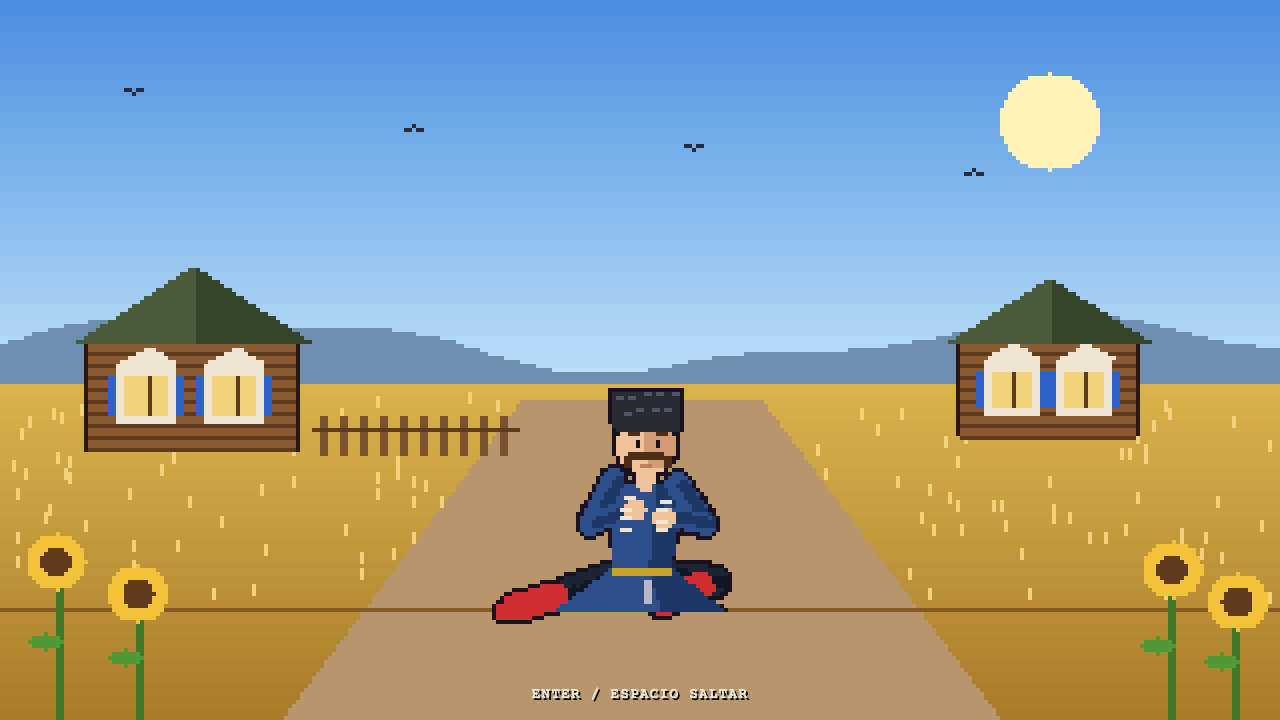
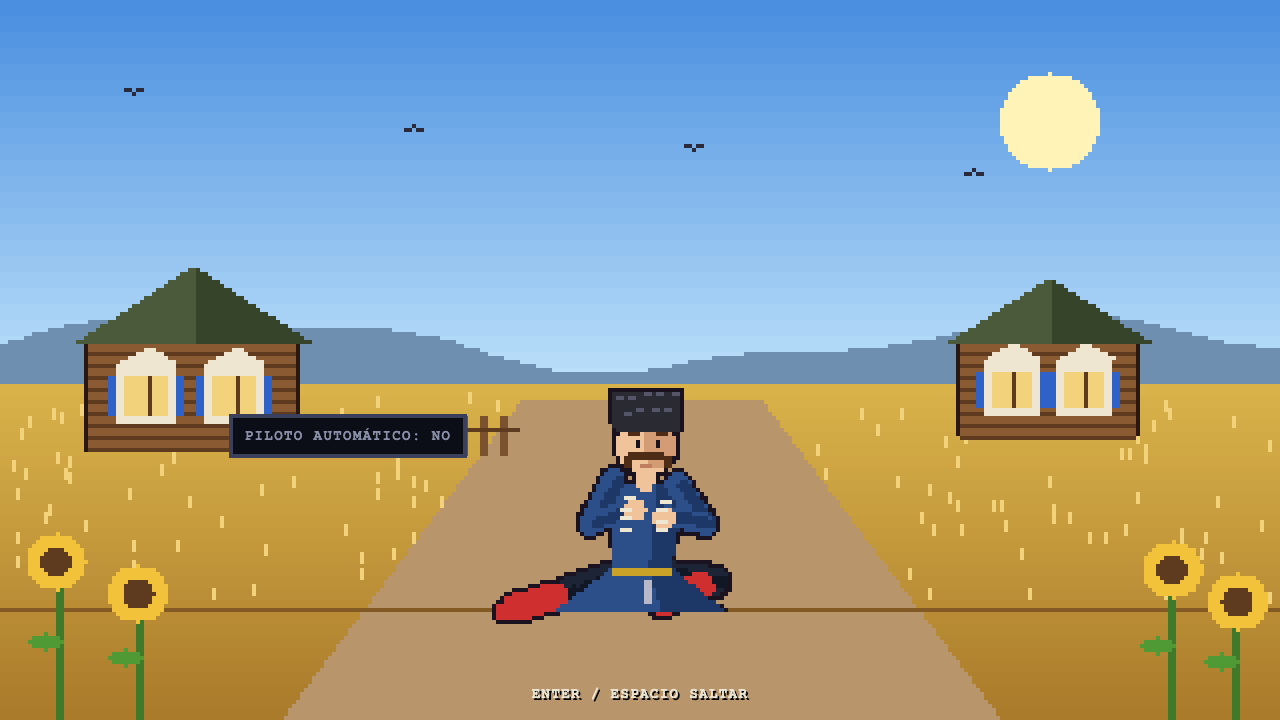
docs: documenta el piloto automático y el ranking en el disco y regenera las capturas

Changed region(s): [[0.1562, 0.55, 0.375, 0.6417]]

diff --git a/tests/screenshots/screenshots.spec.ts b/tests/screenshots/screenshots.spec.ts
@@ -52,6 +52,12 @@ const TETRIS_BOARD = [
 /** Frames que quedan de la animación de 4 líneas en el capturado: fondo destellando y las columnas centrales ya borradas. */
 const TETRIS_FLASH_FRAMES_REMAINING = 14;
 
+/** Nombre que se escribe al entrar en el ranking. */
+const RECORD_NAME = 'Пётр';
+
+/** Frames que juega el piloto antes de la captura: la J ya está bajando hacia su hueco. */
+const AUTOPILOT_SHOT_FRAMES = 16;
+
 /** Líneas al empezar el GIF: lejos del objetivo para que no salte la celebración. */
 const DEMO_START_LINES = 3;
 
@@ -199,7 +205,9 @@ test('limpieza_lineas.png: momento de limpiar varias líneas', async ({ page }) 
   await save(page, 'limpieza_lineas.png');
 });
 
-test('game_over.png: pantalla final con la puntuación', async ({ page }) => {
+test('ranking_nombre.png y game_over.png: nombre para el ranking y pantalla final', async ({
+  page,
+}) => {
   await startGame(page, 4);
   await patchGame(page, {
     boardRows: Array.from({ length: 20 }, (_, i) => (i % 3 === 0 ? 'OOOO.OOOOO' : 'OOOOOOOOO.')),
@@ -212,8 +220,31 @@ test('game_over.png: pantalla final con la puntuación', async ({ page }) => {
   });
   await runUntil(page, (state) => state.phase === 'gameOver');
   await runFrames(page, 2);
+  expect(await screen(page)).toBe('nameEntry');
+  await page.keyboard.type(RECORD_NAME);
+  await runFrames(page, 2);
+  await save(page, 'ranking_nombre.png');
+  await tap(page, 'Enter');
   expect(await screen(page)).toBe('gameOver');
   await save(page, 'game_over.png');
+});
+
+test('partida_piloto.png: el piloto automático colocando una pieza', async ({ page }) => {
+  await startGame(page, 3);
+  await patchGame(page, {
+    boardRows: MID_GAME_BOARD,
+    activePiece: { type: 'J', rotation: 0, x: 5, y: 2 },
+    nextPiece: 'S',
+    score: 21_940,
+    level: 5,
+    lines: 33,
+    levelLines: 11,
+    levelGoal: 14,
+  });
+  await page.getByRole('button', { name: /PILOTO AUTOMÁTICO/ }).click();
+  await runFrames(page, AUTOPILOT_SHOT_FRAMES);
+  expect((await page.evaluate(() => window.__tetris?.getSnapshot()))?.autopilotEnabled).toBe(true);
+  await save(page, 'partida_piloto.png');
 });
 
 /**

diff --git a/README.md b/README.md
@@ -4,15 +4,16 @@
 
 ![Partida de ТЕТРИС en movimiento: las piezas caen y se completan líneas en el pozo, con la Plaza Roja de fondo y sus paseantes](docs/screenshots/partida_demo.gif)
 
-**ТЕТРИС** (Tetris) es un juego de bloques que caen, fiel a las reglas del clásico de NES (1989), hecho con TypeScript, React y Canvas. Se juega en el navegador. Todo el juego cabe en un único archivo `index.html` que funciona abierto con doble clic, sin servidor ni conexión, y viene con lanzadores para macOS, Linux y Windows.
+**ТЕТРИС** (Tetris) es un juego de bloques que caen, fiel a las reglas del clásico de NES (1989), hecho con TypeScript, React y Canvas. Se juega en el navegador. Todo el juego cabe en un único archivo `index.html` que funciona incluso abierto con doble clic, sin conexión, y viene con lanzadores para macOS, Linux y Windows que lo sirven desde un pequeño servidor local para guardar el ranking en el disco.
 
-Se juega delante de una **Plaza Roja viva** en pixel-art, vista desde San Basilio como en las postales, con paseantes, palomas, ciclo de día y noche, tiempo cambiante y **eventos típicos** que van ocupando la plaza: el desfile de la Victoria, la Pascua ortodoxa, el mercadillo de Navidad, los fuegos artificiales, Maslenitsa y la fiesta de los campeones olímpicos. Cada nivel tiene un **objetivo de líneas**; al superarlo, uno de los 9 personajes sale a bailar la danza cosaca durante 10 segundos en su propio escenario ruso. Incluye música chiptune sintetizada en tiempo real, efectos de sonido, récords y preferencias guardadas.
+Se juega delante de una **Plaza Roja viva** en pixel-art, vista desde San Basilio como en las postales, con paseantes, palomas, ciclo de día y noche, tiempo cambiante y **eventos típicos** que van ocupando la plaza: el desfile de la Victoria, la Pascua ortodoxa, el mercadillo de Navidad, los fuegos artificiales, Maslenitsa y la fiesta de los campeones olímpicos. Cada nivel tiene un **objetivo de líneas**; al superarlo, uno de los 9 personajes sale a bailar la danza cosaca durante 10 segundos en su propio escenario ruso. Incluye música chiptune sintetizada en tiempo real, efectos de sonido, un **ranking de 10 puestos con nombre** que se conserva entre sesiones, preferencias guardadas y un **piloto automático** que juega solo con el algoritmo de Pierre Dellacherie.
 
 ## Índice
 
 - [Capturas de pantalla](#capturas-de-pantalla)
 - [Jugar](#jugar)
 - [Controles](#controles)
+- [Piloto automático](#piloto-automático)
 - [Reglas y puntuación](#reglas-y-puntuación)
 - [La Plaza Roja](#la-plaza-roja)
 - [Desarrollo](#desarrollo)
@@ -34,6 +35,8 @@ Se juega delante de una **Plaza Roja viva** en pixel-art, vista desde San Basili
 |                                                                   Limpieza de 4 líneas a la vez: el pozo destella.                                                                    |                                                                         Pausa: el tablero se oculta, como en NES.                                                                         |
 |                           ![Pantalla de fin de partida con la puntuación, las líneas, el nivel y el aviso de nuevo récord](docs/screenshots/game_over.png)                            |                                                     ![Tabla de controles con cada tecla y su acción](docs/screenshots/controles.png)                                                      |
 |                                                                      Fin de la partida con la puntuación final.                                                                       |                                                                                  Pantalla de controles.                                                                                   |
+|              ![Partida con el piloto automático activado: el botón resaltado bajo el marcador y una J bajando sola hacia su hueco](docs/screenshots/partida_piloto.png)               |                ![Fin de partida que entra en el ranking: el juego pide el nombre, escrito en cirílico, con el puesto y la puntuación](docs/screenshots/ranking_nombre.png)                |
+|                                                                        Piloto automático: el juego juega solo.                                                                        |                                                                     Al entrar en el ranking, el juego pide el nombre.                                                                     |
 | ![Celebración del primer nivel: un cosaco con bigote y botas rojas lanza una patada en plena prisiadka en la estepa, entre isbas y girasoles](docs/screenshots/celebracion_nivel.png) | ![Celebración del séptimo nivel: el gigante del baloncesto hace el salto abierto en el pabellón de Moscú-80, con los aros olímpicos y Misha](docs/screenshots/celebracion_moscu_1980.png) |
 |                                                                      El cosaco en plena prisiadka, en la estepa.                                                                      |                                                                   El gigante del baloncesto en el pabellón de Moscú-80.                                                                   |
 
@@ -64,13 +67,17 @@ Para jugar solo necesitas un **navegador moderno** (Chrome, Edge, Firefox o Safa
 | Linux   | `tetris.sh`      | Ver [permiso de ejecución](#linux-permiso-de-ejecución) |
 | Windows | `Tetris.bat`     | Ver [SmartScreen](#windows-smartscreen)                 |
 
-También puedes abrir `index.html` directamente con el navegador.
+El lanzador arranca un pequeño **servidor local** (con Perl en macOS y Linux, que ya vienen con él, y con PowerShell en Windows) y abre el juego en el navegador. Deja abierta la ventana del terminal mientras juegas; ciérrala para terminar.
 
-> Los récords y las preferencias se guardan en el `localStorage` del navegador, asociados a la ruta del archivo. Si mueves la carpeta, empezarás con los récords en blanco.
+### Ranking
+
+El ranking tiene siempre **10 puestos**, que la primera vez que abres el juego en un ordenador están todos a 0 puntos. Si una partida supera la puntuación del décimo, el juego te pide el nombre (hasta 10 caracteres, en cualquier alfabeto) y guarda nombre, puntuación, líneas, nivel y fecha en **`records.json`**, en el disco: junto a `index.html` en la carpeta del zip, o en la raíz del repositorio si juegas desde ahí. Así los récords se conservan de una sesión a otra y cada partida nueva los actualiza. Las partidas con el [piloto automático](#piloto-automático) no cuentan.
+
+También puedes abrir `index.html` directamente con el navegador, sin lanzador. En ese caso no hay servidor, y el ranking y las preferencias se guardan en el `localStorage` del navegador, asociados a la ruta del archivo: si mueves la carpeta, empezarás con el ranking a 0.
 
 ### Lanzadores sin firmar
 
-Los lanzadores no están firmados digitalmente (firmarlos requiere certificados de pago), así que la primera vez el sistema puede avisarte. Son scripts de texto de pocas líneas: puedes abrirlos con un editor y comprobar que solo abren `index.html` en tu navegador.
+Los lanzadores no están firmados digitalmente (firmarlos requiere certificados de pago), así que la primera vez el sistema puede avisarte. Son scripts de texto: puedes abrirlos con un editor y comprobar que solo arrancan el servidor local (`records_server.pl` o `records_server.ps1`, que solo atiende peticiones de tu propio equipo) y abren el juego en tu navegador.
 
 #### macOS (Gatekeeper)
 
@@ -83,7 +90,7 @@ Si aparece _"no se puede abrir porque es de un desarrollador no identificado"_:
   xattr -d com.apple.quarantine Tetris.command
   ```
 
-Al ejecutarse se abre una ventana de Terminal que puedes cerrar en cuanto aparezca el juego en el navegador.
+Al ejecutarse se abre una ventana de Terminal con el servidor local: déjala abierta mientras juegas y ciérrala para terminar.
 
 #### Windows (SmartScreen)
 
@@ -98,7 +105,7 @@ chmod +x tetris.sh
 ./tetris.sh
 ```
 
-O activa _"Permitir ejecutar el archivo como un programa"_ en sus propiedades. El lanzador usa `xdg-open`, que viene en casi todas las distribuciones de escritorio.
+O activa _"Permitir ejecutar el archivo como un programa"_ en sus propiedades. Si lo abres desde un terminal, verás el servidor local; ciérralo con Ctrl+C al terminar. El lanzador usa Perl y `xdg-open`, que vienen en casi todas las distribuciones de escritorio.
 
 ## Controles
 
@@ -113,6 +120,7 @@ O activa _"Permitir ejecutar el archivo como un programa"_ en sus propiedades. E
 | Esc             | Volver al menú (o atrás en las pantallas del menú)                          |
 | Enter           | Empezar / reiniciar (y aceptar en el menú)                                  |
 | Enter o Espacio | Saltar la celebración al superar un nivel                                   |
+| Botón (ratón)   | **PILOTO AUTOMÁTICO**, bajo el marcador: el juego juega solo                |
 
 En el menú: ↑ ↓ para elegir, ← → para cambiar el valor de una opción y Enter para aceptar.
 
@@ -123,9 +131,20 @@ En el menú: ↑ ↓ para elegir, ← → para cambiar el valor de una opción y
 - **Música**: activada o desactivada (los efectos siguen sonando).
 - **Celebraciones**: activa o desactiva los bailarines al superar un nivel (si están desactivadas, solo aparece el rótulo «¡NIVEL N!» durante 2 segundos).
 - **Controles**: la tabla de teclas.
-- **Récords**: las 10 mejores partidas con puntuación, líneas, nivel y fecha.
+- **Récords**: el ranking de 10 puestos con nombre, puntuación, líneas, nivel y fecha (ver [Ranking](#ranking)).
 
 El nivel inicial, la música, las celebraciones y el silencio (M) se guardan entre sesiones.
+
+## Piloto automático
+
+Durante la partida, el botón **PILOTO AUTOMÁTICO** que hay bajo el marcador hace que el juego juegue solo. Se puede pulsar en cualquier momento: jugando, en pausa, durante la celebración y en el fin de partida. Es la única forma de activarlo y desactivarlo, porque no tiene tecla.
+
+- Al activarlo, toma el control de la pieza que está cayendo; al desactivarlo, la pieza se queda donde está y vuelve a responder al teclado.
+- Mientras está activo, las flechas, ↓ y Z no hacen nada; P, M, Esc, Enter y Espacio siguen funcionando.
+- Sigue jugando al cambiar de nivel y, si reinicias tras perder, también juega la partida nueva. No se guarda entre sesiones.
+- **Una partida en la que se ha activado no cuenta para el ranking** ni para el récord del marcador. El fin de partida lo indica.
+
+Juega con el **algoritmo de Pierre Dellacherie**: para cada pieza prueba todas las posiciones y giros a los que puede llegar y se queda con la que mejor puntúa según la altura a la que cae, las líneas que hace, los huecos tapados, los pozos y lo irregular que queda la pila. Con las semillas de los tests juega más de 3000 piezas seguidas sin perder, hasta el nivel 29, y tarda menos de 1 ms en decidir cada jugada.
 
 ## Reglas y puntuación
 
@@ -216,6 +235,7 @@ El fondo es la Plaza Roja vista desde San Basilio, con el encuadre de las postal
   - Windows: `winget install OpenJS.NodeJS.LTS` o el instalador de [nodejs.org](https://nodejs.org).
   - Linux: el gestor de paquetes de tu distribución o [nvm](https://github.com/nvm-sh/nvm) (`nvm install --lts`).
 - **Git**.
+- **Perl** para los tests e2e del ranking en el disco y para `npm run test:server` en macOS y Linux (ya viene con el sistema).
 
 No hace falta Rust ni ninguna otra herramienta nativa: el juego es solo web.
 
@@ -229,20 +249,21 @@ npm ci
 
 ### Comandos
 
-| Comando                 | Qué hace                                                                                                      |
-| ----------------------- | ------------------------------------------------------------------------------------------------------------- |
-| `npm run dev`           | Servidor de desarrollo con recarga en caliente (abre la URL que muestra, normalmente `http://localhost:5173`) |
-| `npm run build`         | Typecheck y build de producción: un único `dist/index.html` autocontenido                                     |
-| `npm run preview`       | Sirve el build de `dist/`                                                                                     |
-| `npm run typecheck`     | Comprueba los tipos (`tsc --noEmit`)                                                                          |
-| `npm run lint`          | ESLint sin errores ni avisos permitidos                                                                       |
-| `npm run format`        | Formatea con Prettier (para comprobar sin cambiar: `npx prettier --check .`)                                  |
-| `npm test`              | Tests unitarios (Vitest)                                                                                      |
-| `npm run test:coverage` | Tests unitarios con cobertura; falla si el motor (`src/engine/`) baja del 90 %                                |
-| `npm run test:e2e`      | Tests end-to-end (Playwright) en Chromium y WebKit, contra el build de producción                             |
-| `npm run package`       | Genera `release/tetris-vX.Y.Z.zip` con el juego y los lanzadores (requiere `npm run build`)                   |
-| `npm run screenshots`   | Regenera las capturas y el GIF de `docs/screenshots/`                                                         |
-| `npm run video`         | Regenera desde cero el vídeo explicativo (ver [Vídeo explicativo](#vídeo-explicativo))                        |
+| Comando                 | Qué hace                                                                                                                          |
+| ----------------------- | --------------------------------------------------------------------------------------------------------------------------------- |
+| `npm run dev`           | Servidor de desarrollo con recarga en caliente (abre la URL que muestra, normalmente `http://localhost:5173`)                     |
+| `npm run build`         | Typecheck y build de producción: un único `dist/index.html` autocontenido                                                         |
+| `npm run preview`       | Sirve el build de `dist/`                                                                                                         |
+| `npm run typecheck`     | Comprueba los tipos (`tsc --noEmit`)                                                                                              |
+| `npm run lint`          | ESLint sin errores ni avisos permitidos                                                                                           |
+| `npm run format`        | Formatea con Prettier (para comprobar sin cambiar: `npx prettier --check .`)                                                      |
+| `npm test`              | Tests unitarios (Vitest)                                                                                                          |
+| `npm run test:coverage` | Tests unitarios con cobertura; falla si el motor (`src/engine/`) o el piloto (`src/ai/`) bajan del 90 %                           |
+| `npm run test:e2e`      | Tests end-to-end (Playwright) en Chromium y WebKit, contra el build de producción (con Vite y con el servidor de récords de Perl) |
+| `npm run test:server`   | Comprueba el servidor de récords de los lanzadores en tu sistema (Perl en macOS y Linux, PowerShell en Windows)                   |
+| `npm run package`       | Genera `release/tetris-vX.Y.Z.zip` con el juego, los lanzadores y el servidor de récords (requiere `npm run build`)               |
+| `npm run screenshots`   | Regenera las capturas y el GIF de `docs/screenshots/`                                                                             |
+| `npm run video`         | Regenera desde cero el vídeo explicativo (ver [Vídeo explicativo](#vídeo-explicativo))                                            |
 
 Antes de ejecutar los tests e2e o las capturas por primera vez, instala los navegadores de Playwright:
 
@@ -275,8 +296,10 @@ Sin esos parámetros el juego funciona con normalidad.
 
 Como el juego es un único `index.html`, "compilar para cada sistema" se reduce a acompañarlo de un lanzador por sistema:
 
-- `launchers/Tetris.command` (macOS), `launchers/tetris.sh` (Linux) y `launchers/Tetris.bat` (Windows) abren el juego en el navegador predeterminado. Buscan `index.html` junto a ellos (en el zip de la release) o en `../dist/` (en el repositorio clonado, después de `npm run build`). Si no lo encuentran, explican qué hacer.
-- `npm run package` crea `release/tetris-vX.Y.Z.zip` con `index.html`, los tres lanzadores (con permiso de ejecución en macOS y Linux) y un `LEEME.txt`.
+- `launchers/Tetris.command` (macOS), `launchers/tetris.sh` (Linux) y `launchers/Tetris.bat` (Windows) buscan `index.html` junto a ellos (en el zip de la release) o en `../dist/` (en el repositorio clonado, después de `npm run build`). Si no lo encuentran, explican qué hacer.
+- Después arrancan el **servidor de récords**: `launchers/records_server.pl` (Perl, solo con los módulos que trae) o `launchers/records_server.ps1` (PowerShell con `HttpListener`). Sirve el juego en `http://127.0.0.1` (o `localhost` en Windows), con el primer puerto libre a partir del 47321, y lee y escribe el ranking en `records.json` (`GET` y `PUT` en `/api/records`, con escritura atómica). Solo atiende peticiones dirigidas a tu propio equipo, para que ninguna web de fuera pueda escribir en el disco. Si no hay Perl, el lanzador abre `index.html` directamente.
+- `npm run package` crea `release/tetris-vX.Y.Z.zip` con `index.html`, los tres lanzadores (con permiso de ejecución en macOS y Linux), los dos servidores de récords y un `LEEME.txt`.
+- El CI ejecuta cada lanzador en modo de prueba y `npm run test:server` en macOS, Linux y Windows, desde el repositorio y desde el zip extraído.
 
 Para jugar desde el repositorio clonado:
 
@@ -338,13 +361,15 @@ flowchart LR
   raf([requestAnimationFrame]) --> loop["src/app/game_loop<br/>bucle de juego"]
   loop --> controller["src/app/app_controller<br/>pantallas y partida"]
   input --> session["src/app/game_session<br/>frames de 1/60 s"]
+  ai["src/ai<br/>piloto Dellacherie"] -- "entrada del piloto" --> session
   controller --> session
   session --> engine["src/engine<br/>step(state, input, dt)"]
   engine -- "estado + eventos" --> controller
   controller -- eventos --> audio["src/audio<br/>Web Audio chiptune"]
   controller -- levelUp --> celebration["src/celebration<br/>bailarines y escenarios"]
   loop --> scene["src/scene<br/>Plaza Roja de fondo"]
-  controller <--> storage["src/storage<br/>localStorage"]
+  controller <--> storage["src/storage<br/>localStorage o records.json"]
+  storage <--> server(["launchers/records_server<br/>servidor local"])
   controller -- snapshot --> ui["src/ui<br/>React: menús y HUD"]
   loop --> render["src/render<br/>Canvas"]
   engine -. estado .-> render
@@ -357,14 +382,14 @@ flowchart LR
 
 1. `requestAnimationFrame` llama al bucle (`src/app/game_loop.ts`) en cada refresco de pantalla con el tiempo transcurrido, limitado a 250 ms para no dar saltos al volver de otra pestaña.
 2. El controlador (`src/app/app_controller.ts`) lee las teclas que tocan en la pantalla actual: menú, partida, pausa, celebración o fin de partida.
-3. Durante la partida, `game_session` reparte el tiempo en **frames fijos de 1/60 s**. En cada frame lee el teclado (desplazamiento con DAS y rotaciones) y llama a `step(state, input, dt)` del motor. Así el juego va igual de rápido en pantallas de 60, 120 o 144 Hz y no se pierden pulsaciones.
+3. Durante la partida, `game_session` reparte el tiempo en **frames fijos de 1/60 s**. En cada frame lee el teclado (desplazamiento con DAS y rotaciones) y llama a `step(state, input, dt)` del motor; con el piloto automático activo, el teclado se sigue leyendo pero la entrada del frame la da el piloto. Así el juego va igual de rápido en pantallas de 60, 120 o 144 Hz y no se pierden pulsaciones.
 4. La escena de fondo (`src/scene/`) avanza su propio reloj: hora del día, tiempo atmosférico, gente y calendario de eventos.
 5. Después se dibujan el fondo, el pozo y, si toca, la celebración en sus canvas, y React actualiza menús y marcador solo cuando cambia algo visible.
 
 ### Flujo de estado
 
 - **El motor (`src/engine/`) es puro**: no sabe nada de React, del DOM ni del audio. `step` recibe el estado anterior y devuelve un estado nuevo, inmutable, junto con una lista de **eventos** (`pieceMoved`, `pieceRotated`, `pieceLocked`, `linesCleared`, `levelUp`, `gameOver`). Una partida pasa por las fases `falling` → `lineClear` → `entryDelay` → `falling`… Al alcanzar el objetivo pasa a `levelComplete`, y `startNextLevel` empieza el nivel siguiente con el tablero vacío; así hasta `gameOver`. La semilla del generador forma parte del estado, así que la misma semilla da siempre la misma partida.
-- **El controlador reparte los eventos**: los efectos de sonido, la aceleración de la música, la celebración al recibir `levelUp` y el récord al recibir `gameOver`. La pausa y la celebración congelan la partida dejando de llamar a `step`; al terminar la celebración, el controlador empieza el nivel siguiente.
+- **El controlador reparte los eventos**: los efectos de sonido, la aceleración de la música, la celebración al recibir `levelUp` y, al recibir `gameOver`, el ranking (si la partida entra y no ha usado el piloto, pide el nombre antes de guardarla). La pausa y la celebración congelan la partida dejando de llamar a `step`; al terminar la celebración, el controlador empieza el nivel siguiente.
 - **La interfaz solo pinta**: los componentes de `src/ui/` reciben una "foto" (`snapshot`) del controlador mediante `useSyncExternalStore` y no contienen lógica de juego. La navegación del menú es una función pura (`menu_navigation.ts`).
 - **Todo lo configurable está en `src/config/`**: tablero, piezas y rotaciones, tablas de gravedad y puntuación, retardos, teclas, colores, textos, sonido y celebraciones.
 
@@ -373,6 +398,12 @@ flowchart LR
 - La música y los efectos se sintetizan con osciladores de onda cuadrada y triangular. No hay archivos de audio. Un secuenciador programa las notas por adelantado sobre el reloj de audio para que el ritmo sea estable. Las canciones están escritas como texto (`NOTA:pasos`) en `src/audio/songs/`. El audio arranca con la primera tecla ("PULSA CUALQUIER TECLA") porque los navegadores lo bloquean hasta que hay interacción.
 - La Plaza Roja (`src/scene/`) se dibuja con formas de píxeles nítidos a 640 × 360 píxeles lógicos y se escala a pantalla completa. Los edificios se pintan una vez en capas de día y de noche (San Basilio en una capa aparte, para tapar a quien pasa por detrás) y cada fotograma las mezcla según la hora; el cielo, la gente, las palomas, las farolas y la lluvia o la nieve se calculan en cada fotograma y se ordenan por profundidad. Un calendario puro (`src/scene/events/event_schedule.ts`) alterna la vida normal con los eventos según la hora del día; cada evento (`src/scene/events/`) aporta sus figurantes y decorados, dibujos en el cielo y adornos en los edificios, y pide el tiempo atmosférico que le corresponde.
 - Los bailarines (`src/celebration/`) son pixel-art de alta resolución animado con un **esqueleto**: la coreografía da los ángulos de cada articulación en cada instante, un cálculo de cinemática directa coloca huesos y manos, y cada personaje viste ese esqueleto con su ropa, su cabeza y sus accesorios, con contorno y sombreado. Cada escenario es una función de dibujo con sus propias animaciones (el cohete que despega, el público del pabellón…). Una máquina de estados pura decide qué personaje sale y en qué momento del baile va.
+
+### Piloto automático
+
+- `src/ai/dellacherie.ts` es puro y solo usa funciones del motor (`tryMove`, `tryRotate`, `collides`, `lockPiece`, `findFullRows`, `removeRows`). Genera las colocaciones alcanzables desde la posición actual (cada giro posible en el sitio, sin _wall kicks_, y desde él cada columna a la que se llega desplazando) y las deja caer. Después puntúa cada una con la fórmula de Dellacherie, cuyos pesos están en `src/config/autopilot_config.ts`: −1 × altura de aterrizaje + 1 × celdas erosionadas − 1 × transiciones de filas − 1 × transiciones de columnas − 4 × huecos − 1 × pozos acumulados. A igual puntuación, gana la que pide menos movimientos.
+- `src/ai/autopilot.ts` convierte esa colocación en un `FrameInput` por frame: gira y desplaza (comprobando antes que el motor lo aceptará), espera un frame sin soft drop al empezar cada pieza (el motor exige soltar ↓) y, ya alineada, baja con soft drop. Si en niveles rápidos la gravedad hace imposible el plan, vuelve a calcularlo desde donde está la pieza.
+- `game_session` recibe la entrada del piloto en lugar de la del teclado, y el controlador lleva el estado del botón y si la partida lo ha usado.
 
 ## Estructura de carpetas
 
@@ -383,25 +414,27 @@ flowchart LR
 │   ├── main.tsx               Punto de entrada de React
 │   ├── config/                Constantes: tablero, piezas, gravedad, puntuación, teclas, colores, textos…
 │   ├── engine/                Motor puro: tablero, piezas, rotación NES, colisiones, gravedad, puntuación, step()
+│   ├── ai/                    Piloto automático: algoritmo de Dellacherie y generador de entradas
 │   ├── input/                 Teclado: teclas mantenidas y pulsadas, DAS
 │   ├── render/                Dibujo en Canvas: pozo, siguiente pieza, animación de limpieza, título
 │   ├── audio/                 Sintetizador, secuenciador, efectos y canciones (Korobeiniki, Kalinka)
 │   ├── scene/                 Plaza Roja de fondo: edificios, cielo, gente, día y noche, tiempo y eventos
 │   ├── celebration/           Celebraciones: esqueleto y coreografía, 9 bailarines y sus escenarios
-│   ├── storage/               Preferencias y récords en localStorage
+│   ├── storage/               Preferencias y ranking (localStorage o records.json con el servidor local)
 │   ├── app/                   Bucle de juego, controlador de pantallas, sesión de partida, modo test
 │   └── ui/                    Componentes React: inicio, menú, HUD, pausa, fin de partida, celebración
 ├── tests/
 │   ├── unit/                  Tests unitarios (Vitest), con la misma estructura que src/
 │   ├── e2e/                   Tests end-to-end (Playwright)
 │   └── screenshots/           Generación de las capturas y del GIF del README
-├── launchers/                 Lanzadores para macOS, Linux y Windows, y el LEEME del zip
-├── scripts/                   Empaquetado del zip de la release (sin dependencias)
+├── launchers/                 Lanzadores, servidores de récords (Perl y PowerShell) y el LEEME del zip
+├── scripts/                   Empaquetado del zip de la release y prueba del servidor de récords
 ├── docs/screenshots/          Capturas generadas para este README
 ├── docs/video/                Vídeo explicativo publicado y su miniatura
 ├── video/                     Vídeo explicativo: guion, fuentes, narración, grabaciones, rótulos y montaje
 ├── .github/workflows/         CI (comprobaciones, e2e, lanzadores) y release
 ├── prompt_tetris.md           Especificación original del proyecto y cambios acordados
+├── algoritmo_dellacherie_tetris.md  Especificación del piloto automático
 └── prompt_video.md            Especificación del vídeo explicativo y cambios acordados
 ```
 
@@ -426,6 +459,7 @@ flowchart LR
    npx prettier --check .
    npm run test:coverage
    npm run test:e2e
+   npm run test:server
    npm run build
    ```
 

diff --git a/prompt_tetris.md b/prompt_tetris.md
@@ -286,3 +286,22 @@ Estos cambios prevalecen sobre todo lo anterior.
 ### Plaza Roja
 - **Vista más alejada**, con el encuadre típico de la plaza (según la foto que aportó el autor): muralla del Kremlin y torre Spásskaya a la izquierda, catedral de San Basilio a la derecha, Museo Histórico y GUM al fondo, y la explanada en perspectiva con gente.
 - **Eventos típicos** que van rotando durante la partida (uno cada 2–3 minutos, alternando con la vida normal y combinados con los paseantes): desfile de la Victoria, Pascua ortodoxa, Navidad y Año Nuevo (mercadillo, pista de hielo, abeto y luces), fuegos artificiales, Maslenitsa y celebración de victorias olímpicas. Cada evento aparece a la hora y con el tiempo que le corresponden (por ejemplo, los fuegos y la procesión de Pascua de noche, la Navidad con nieve).
+
+## Cambios acordados — cuarta iteración (3 de octubre de 2026)
+
+Estos cambios prevalecen sobre todo lo anterior.
+
+### Piloto automático
+- Especificación completa en `algoritmo_dellacherie_tetris.md`: el juego puede jugar solo con el algoritmo de Pierre Dellacherie (`src/ai/dellacherie.ts`, con los pesos en `src/config/autopilot_config.ts`), que elige la mejor colocación alcanzable de la pieza activa, y un generador de entradas (`src/ai/autopilot.ts`) que la convierte en `FrameInput` frame a frame. El motor no se modifica.
+- **Botón** «PILOTO AUTOMÁTICO: NO / SÍ» bajo el marcador, visible y pulsable en todas las pantallas de partida (también por encima de la celebración y mientras se pide el nombre). Es la única forma de activarlo y desactivarlo, y no se queda con el foco, para que ENTER y ESPACIO no lo cambien.
+- Con el piloto activo se ignoran las teclas de juego (flechas, ↓ y Z); siguen funcionando P, M, Esc, ENTER en el game over y las teclas de saltar la celebración. Sigue jugando al cambiar de nivel. Al activarlo toma la pieza que cae desde donde está; al desactivarlo, la pieza se queda donde está.
+- El estado del piloto vive en el controlador durante la sesión (no se guarda). Si está activo al empezar una partida, también desde el menú, la partida empieza con piloto.
+- Una partida en la que se ha activado el piloto en algún momento **no cuenta para récords** ni para el récord del marcador; el game over lo indica. CONTROLES añade la fila «BOTÓN PILOTO → EL JUEGO JUEGA SOLO».
+- `findBestPlacement` solo devuelve `null` si la pieza ya choca en su posición (siempre se puede dejar caer donde está). Umbral de cobertura del 90 % también en `src/ai/**`.
+
+### Ranking persistente en el disco
+- Sustituye a «Récords: sin pedir nombre». El ranking tiene siempre **10 puestos**, que empiezan a 0 puntos la primera vez que se abre el juego en un ordenador. Para entrar hay que superar la puntuación del décimo (una partida de 0 puntos nunca entra; a igual puntuación queda delante la más antigua).
+- Al entrar, el juego **pide el nombre** en un campo de texto (hasta 10 caracteres: letras de cualquier alfabeto, cifras, espacio, punto y guion; se guarda en mayúsculas; vacío queda «---») y guarda nombre, puntuación, líneas, nivel y fecha. Mientras se escribe, el teclado del juego no actúa. Las partidas con piloto no piden nombre.
+- El ranking se guarda en **`records.json`** en el disco del ordenador: junto a `index.html` en el zip de la release y en la raíz del repositorio clonado (en `.gitignore`). Los lanzadores arrancan un **servidor local mínimo** que sirve el juego en `127.0.0.1`/`localhost` y lee y escribe ese archivo: `records_server.pl` (Perl, que viene con macOS y Linux) y `records_server.ps1` (PowerShell, en Windows). Solo atiende peticiones locales. La ventana del terminal debe quedar abierta mientras se juega.
+- Si se abre `index.html` directamente (o no hay Perl), el ranking se guarda en el navegador como antes. Los récords antiguos, sin nombre, aparecen como «---».
+- `npm run test:server` comprueba el servidor del sistema en que se ejecuta; el job de lanzadores del CI lo ejecuta en macOS, Linux y Windows, desde el repositorio y desde el zip. Los e2e añaden el servidor de Perl para probar el ranking en el disco.
